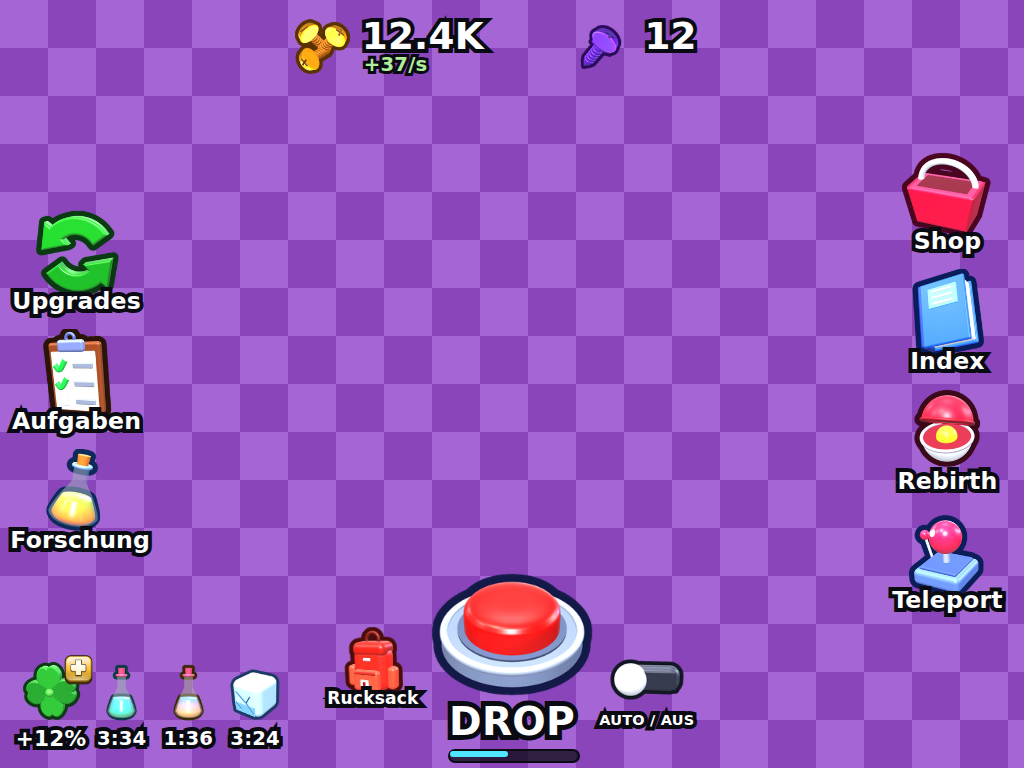
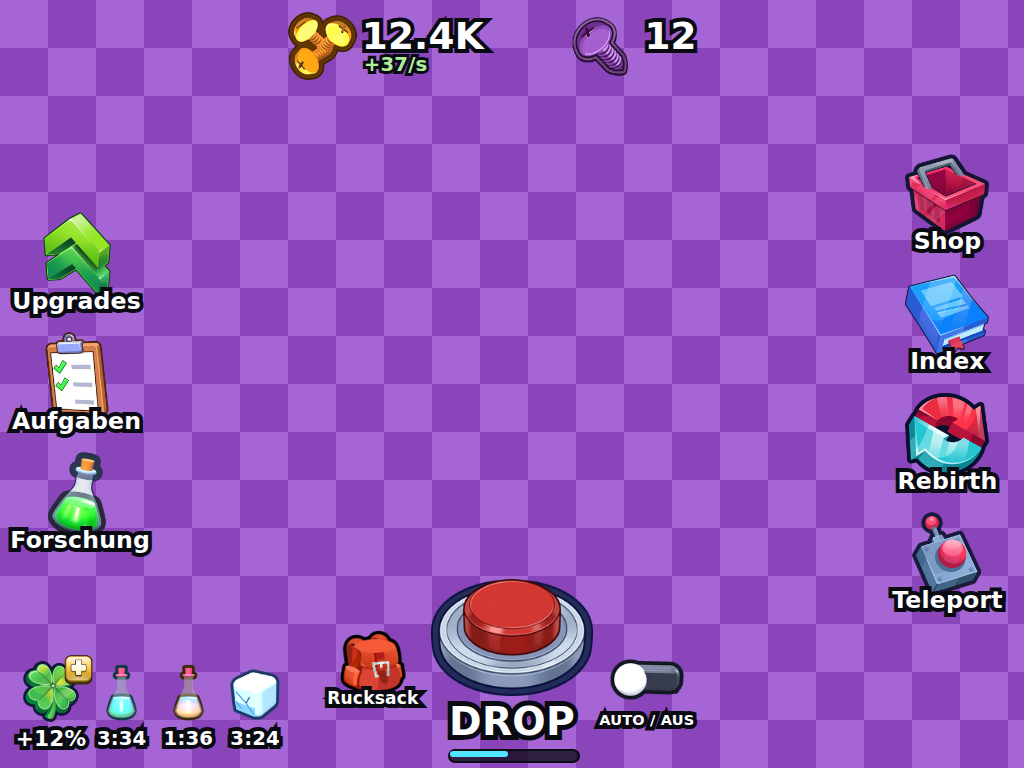
Use the user's own button images (freed from Buttons.zip) for all main buttons and currency symbols
Claude-Session: https://claude.ai/code/session_017gRZj1D7xuyxdpJXhPYWcz

diff --git a/tools/import_buttons.py b/tools/import_buttons.py
@@ -1,0 +1,108 @@
+#!/usr/bin/env python3
+"""
+Schneidet die fertigen Button-Bilder (JPG auf weißem Hintergrund) frei und legt sie als PNG mit Transparenz in
+assets/ui/buttons/ ab. tools/make_ui_atlas.py setzt diese Bilder danach in den Atlas.
+
+Aufruf:  python3 tools/import_buttons.py  <Ordner mit den JPGs>
+Braucht: pip install pillow numpy scipy
+"""
+import os, sys
+import numpy as np
+from PIL import Image
+from scipy import ndimage
+
+HERE = os.path.dirname(os.path.abspath(__file__))
+OUT = os.path.join(HERE, "..", "assets", "ui", "buttons")
+MAXSIDE = 640           # gespeichert wird höchstens so groß (reicht für den Atlas)
+BG_MIN, BG_RANGE = 150, 24   # "Hintergrund" = hell und fast farblos (Weiß und weiche Schatten)
+WORK = 1400             # Arbeitsgröße (längste Seite)
+# Einzelfälle: Lücken schließen (Kolbenhals ist im Original nur Glas ohne Rand) und dunkle Kontur nachziehen (Farbe, Breite bei 640 px)
+CLOSE = {"ForschungButton": 14}
+STRICT = {"ForschungButton": 9}     # Glasränder sind nur blass bläulich: Hintergrund muss hier wirklich farblos sein
+OUTLINE = {"UpgradeButton": ("#0a3a12", 9), "AufgabenButton": ("#3a1a08", 6), "ForschungButton": ("#232a4a", 9)}
+
+def add_outline(im, color, width):
+    a = np.asarray(im.getchannel("A"), dtype=np.float32) / 255.0
+    pad = int(width) + 4
+    a = np.pad(a, pad)
+    dist = ndimage.distance_transform_edt(a < 0.5)
+    ring = np.clip(width + 0.5 - dist, 0, 1)
+    rgb = np.array([int(color[i:i + 2], 16) for i in (1, 3, 5)], dtype=np.float32)
+    base = np.zeros((*a.shape, 4), dtype=np.float32)
+    base[..., :3] = rgb; base[..., 3] = np.maximum(ring, a) * 255.0
+    under = Image.fromarray(base.astype(np.uint8), "RGBA")
+    src = Image.new("RGBA", under.size, (0, 0, 0, 0)); src.paste(im, (pad, pad))
+    under.alpha_composite(src)
+    return under
+
+def cutout(path):
+    im = Image.open(path).convert("RGB")
+    key = os.path.splitext(os.path.basename(path))[0]
+    im.thumbnail((WORK, WORK), Image.LANCZOS)
+    a = np.asarray(im, dtype=np.float32)
+    mn, mx = a.min(axis=2), a.max(axis=2)
+    bgish = (mn >= BG_MIN) & ((mx - mn) <= STRICT.get(key, BG_RANGE))
+    lab, n = ndimage.label(bgish)
+    border = set(np.unique(np.concatenate([lab[0], lab[-1], lab[:, 0], lab[:, -1]]))) - {0}
+    bg = np.isin(lab, list(border))
+    fg = ~bg
+    fg = ndimage.binary_opening(fg, iterations=2)                          # Krümel weg
+    lab2, n2 = ndimage.label(fg)                                            # nur der größte Körper (plus große Teile) bleibt
+    if n2 > 1:
+        sizes = ndimage.sum(fg, lab2, range(1, n2 + 1))
+        keep = [i + 1 for i, sz in enumerate(sizes) if sz >= 0.02 * sizes.max()]
+        fg = np.isin(lab2, keep)
+    fg = ndimage.binary_fill_holes(fg)
+    added = np.zeros_like(fg)
+    if key in CLOSE:
+        r = CLOSE[key]
+        yy, xx = np.mgrid[-r:r + 1, -r:r + 1]
+        disk = (xx * xx + yy * yy) <= r * r
+        padded = np.pad(fg, r + 2)
+        closed = ndimage.binary_closing(padded, structure=disk)[r + 2:-(r + 2), r + 2:-(r + 2)]
+        closed = ndimage.binary_fill_holes(closed)
+        added = closed & ~fg
+        fg = closed
+    # Randband: Anti-Aliasing gegen Weiß entmischen
+    dist_in = ndimage.distance_transform_edt(fg)
+    dist_out = ndimage.distance_transform_edt(~fg)
+    core = dist_in > 4
+    _, idx = ndimage.distance_transform_edt(~core, return_indices=True)
+    inner = a[idx[0], idx[1]]                                               # nächste "sichere" Farbe
+    band = (dist_in <= 4) | (dist_out <= 2)
+    d = 255.0 - inner
+    num = ((255.0 - a) * d).sum(axis=2)
+    den = np.maximum((d * d).sum(axis=2), 1.0)
+    alpha_band = np.clip(num / den, 0, 1)
+    alpha = np.where(fg, 1.0, 0.0).astype(np.float32)
+    # innen am Rand: weicher Verlauf; außen (bis 2 px): nur wenn wirklich Farbe da ist
+    edge_in = fg & (dist_in <= 3) & ~ndimage.binary_dilation(added, iterations=2)
+    alpha[edge_in] = np.clip(alpha_band[edge_in] * 1.15, 0, 1)
+    edge_out = (~fg) & (dist_out <= 1.5)
+    alpha[edge_out] = np.clip(alpha_band[edge_out] * 0.9, 0, 1) * (alpha_band[edge_out] > 0.25)
+    rgb = np.where(band[..., None], inner, a)
+    if added.any():                                                         # gefüllte Glasfläche: hell, leicht bläulich
+        rgb[added] = np.minimum(rgb[added] * np.array([0.93, 0.96, 1.0]), 255)
+        alpha[added] = 1.0
+    out = np.dstack([np.clip(rgb, 0, 255), alpha * 255]).astype(np.uint8)
+    res = Image.fromarray(out, "RGBA")
+    bb = res.getchannel("A").point(lambda v: 255 if v > 8 else 0).getbbox()
+    res = res.crop(bb)
+    res.thumbnail((MAXSIDE, MAXSIDE), Image.LANCZOS)
+    if key in OUTLINE:
+        res = add_outline(res, *OUTLINE[key])
+        res = res.crop(res.getchannel("A").point(lambda v: 255 if v > 8 else 0).getbbox())
+    return res
+
+def main(src):
+    os.makedirs(OUT, exist_ok=True)
+    for name in sorted(os.listdir(src)):
+        if not name.lower().endswith((".jpg", ".jpeg", ".png")):
+            continue
+        res = cutout(os.path.join(src, name))
+        target = os.path.join(OUT, os.path.splitext(name)[0] + ".png")
+        res.save(target, optimize=True)
+        print(name, "->", os.path.basename(target), res.size)
+
+if __name__ == "__main__":
+    main(sys.argv[1])

diff --git a/tools/make_ui_atlas.py b/tools/make_ui_atlas.py
@@ -260,23 +260,27 @@ def plate(name, x, y, w, h, colour):
 def small(name, x, y, fn, size=96):
     SPRITES.append((name, x, y, size, size, svg_wrap(size, size, 128, 128, fn())))
 
-# --- 3D-Icons (ohne Platte), siehe tools/icons3d.py. name: (Größe, Konturfarbe, Art)
-# Art: "tile" = unten bleibt Platz für die Beschriftung, "icon" = frei stehend, "crop" = eng zugeschnitten (Größe = Breite)
-# Die Position im Atlas wird automatisch gesucht (pack), die Ausschnitte landen in atlas_rects.lua.
+# --- Fertige Button-Bilder (aus deinem Buttons.zip, freigestellt von tools/import_buttons.py -> assets/ui/buttons/)
+# Atlas-Name: (Datei ohne .png, Größe, Art)
+# Art: "tile" = Symbol sitzt oben in der Zelle, unten bleibt Platz für die Beschriftung; "icon" = mittig; "crop" = ganze Breite, Höhe nach Seitenverhältnis
+BUTTONS = {
+    "upgrades": ("UpgradeButton", 192, "tile"),
+    "aufgaben": ("AufgabenButton", 192, "tile"),
+    "forschung": ("ForschungButton", 192, "tile"),
+    "shop": ("ShopButton", 192, "tile"),
+    "index": ("IndexButton", 192, "tile"),
+    "rebirth": ("RebirthButton", 192, "tile"),
+    "teleport": ("TeleportButton", 192, "tile"),
+    "backpack": ("BackpackButton", 192, "tile"),
+    "drop": ("DropButton", 208, "crop"),
+    "screws": ("SchraubenSymbolGelb", 128, "icon"),
+    "screws_p": ("SchraubenSymbolLila", 128, "icon"),
+    "nut": ("EinzelneSchraubenSymbolGelb", 80, "icon"),
+    "gear": ("EinzelneSchraubenSymbolLila", 96, "icon"),
+    "clover": ("LuckSymbol", 112, "icon"),
+}
+# --- 3D-Icons (ohne Platte), siehe tools/icons3d.py. name: (Größe, Konturfarbe, Art). Position im Atlas wird automatisch gesucht.
 ICONS3D = {
-    "upgrades": (192, "#0a3a12", "tile"),
-    "aufgaben": (192, "#2a1408", "tile"),
-    "forschung": (192, "#0e2a5a", "tile"),
-    "shop": (192, "#4a0620", "tile"),
-    "index": (192, "#0a1c5a", "tile"),
-    "rebirth": (192, "#3a0a1a", "tile"),
-    "teleport": (192, "#0c1e5a", "tile"),
-    "backpack": (192, "#4a0e0a", "tile"),
-    "drop": (208, "#141a48", "crop"),
-    "screws": (128, "#5a3200", "icon"),
-    "nut": (80, "#5a3200", "icon"),
-    "gear": (96, "#2a0a5a", "icon"),
-    "clover": (112, "#0d3a14", "icon"),
     "ice": (96, "#1c3a66", "icon"),
     "potion_g": (96, "#0e3a44", "icon"),
     "potion_y": (96, "#3a2a08", "icon"),
@@ -321,6 +325,19 @@ plate("gold4", 512, 896, 512, 128, "gold")
 
 PACK_H = 640    # oberhalb davon liegen Icons, darunter die Platten
 
+def place(src, size, kind):
+    """Fertiges Bild in seine Atlas-Zelle setzen (Seitenverhältnis bleibt)."""
+    w, h = size
+    cell = Image.new("RGBA", (w, h), (0, 0, 0, 0))
+    if kind == "crop":
+        cell.alpha_composite(src.resize((w, h), Image.LANCZOS)); return cell
+    box = round(w * 0.79) if kind == "tile" else w - 4                       # Kacheln: Platz für die Beschriftung unten
+    k = min(box / src.width, box / src.height)
+    im = src.resize((max(1, round(src.width * k)), max(1, round(src.height * k))), Image.LANCZOS)
+    cy = round(h * 0.425) if kind == "tile" else h // 2
+    cell.alpha_composite(im, ((w - im.width) // 2, cy - im.height // 2))
+    return cell
+
 def pack(items, fixed=()):
     """Einfacher Platzsucher: items = [(name, w, h)], fixed = schon belegte (x, y, w, h). Gibt {name: (x, y)} zurück."""
     import numpy as np
@@ -359,6 +376,11 @@ def main():
     sizes = {}
     for n, (sz, col, kind) in ICONS3D.items():
         sizes[n] = (sz, round(sz * ims[n].height / ims[n].width)) if kind == "crop" else (sz, sz)
+    cells = {}
+    for n, (file, sz, kind) in BUTTONS.items():
+        src = Image.open(os.path.join(OUT, "buttons", file + ".png")).convert("RGBA")
+        sizes[n] = (sz, round(sz * src.height / src.width)) if kind == "crop" else (sz, sz)
+        cells[n] = place(src, sizes[n], kind)
     for n, (w, col) in TOGGLES.items():
         sizes[n] = (w, round(w * ims[n].height / ims[n].width))
     # 2) Platz suchen: kleine SVG-Symbole (x = None) und alle 3D-Icons
@@ -380,7 +402,7 @@ def main():
         br.close()
     # 4) 3D-Icons einsetzen
     for n, (w, h) in sizes.items():
-        atlas.alpha_composite(ims[n].resize((w, h), Image.LANCZOS), pos[n])
+        atlas.alpha_composite(cells[n] if n in cells else ims[n].resize((w, h), Image.LANCZOS), pos[n])
     atlas.save(os.path.join(OUT, "atlas.png"), optimize=True)
     with open(os.path.join(OUT, "atlas_rects.lua"), "w", encoding="utf8") as f:
         f.write("local SPR = {\n")

diff --git a/DESIGN.md b/DESIGN.md
@@ -74,8 +74,12 @@ freistehende 3D-Icons ohne Platte, Beschriftung mit dicker Kontur darüber.
 3. Im LocalScript oben `local ATLAS_ID = "123456789"` (die kopierte Zahl) eintragen.
 4. Play. Falls die Knöpfe weiß bleiben, ist das Bild noch in der Prüfung oder die ID falsch.
 
-Die Bilder werden von `tools/make_ui_atlas.py` erzeugt: Platten als Vektorgrafik, Icons als 3D-Modelle (three.js, `tools/render3d`, Kontur in `tools/icons3d.py`). Einmalig `cd tools/render3d && npm install`. Farben, Icons und
-Größen lassen sich dort ändern: `python3 tools/make_ui_atlas.py` erzeugt `atlas.png` und `atlas_rects.lua` neu.
+Die Bilder werden von `tools/make_ui_atlas.py` erzeugt. Die großen Buttons und Währungs-Symbole sind **deine fertigen Bilder**
+(`assets/ui/buttons/*.png`, freigestellt aus den JPGs von `Buttons.zip` mit `python3 tools/import_buttons.py <Ordner>`):
+Upgrade, Aufgaben, Forschung, Shop, Index, Rebirth, Teleport, Backpack, Drop, Schrauben gelb/lila (Haufen und einzeln), Luck.
+Platten sind Vektorgrafik, Eiswürfel, Tränke, Schloss, Stern, Hand und AUTO-Schalter sind 3D-Modelle (three.js, `tools/render3d`,
+Kontur in `tools/icons3d.py`; einmalig `cd tools/render3d && npm install`). Ein Button-Bild austauschen: neue Datei in
+`assets/ui/buttons/` mit gleichem Namen ablegen. Größen lassen sich in `BUTTONS` und `ICONS3D` ändern: `python3 tools/make_ui_atlas.py` erzeugt `atlas.png` und `atlas_rects.lua` neu.
 Die Plätze im Bild werden automatisch gesucht. Danach den Block `local SPR = { ... }` im Skript durch den Inhalt von `atlas_rects.lua` ersetzen.
 
 ### Bot-Bilder (optional)
